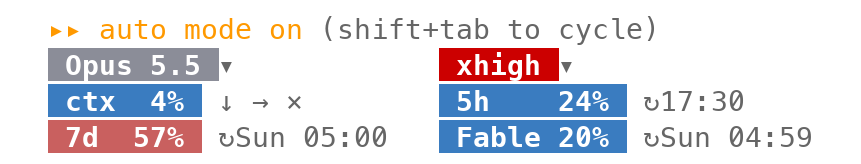
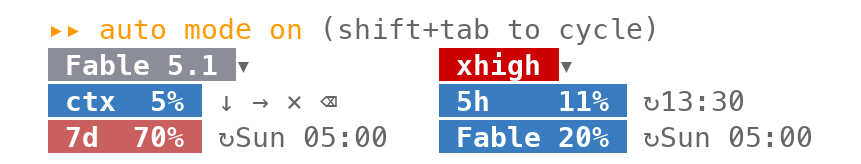
feat(statusbar): ctx 旁加上清空輸入框的 ⌫ 鈕
Claude 工作中輸入框打了字，想清掉時按 Esc 會中斷這一輪，而不是清掉
輸入框。在 ctx 列 ↓ → × 的右邊加一顆 ⌫，按一次就用空字串取代輸入框
的內容（$.prompt.fill），不送指令、不中斷工作；× 已經是 /clear，所以
用不同的符號。滑鼠移上去浮出 clear input，四個名稱標籤補到一樣寬。

實機讓 Claude 跑 20 秒的指令，工作中打字再點 ⌫：輸入框清空，這一輪
照常跑完。README 中英兩版補上說明，寬版與窄版截圖重拍。版號升至
0.7.0。

Claude-Session: https://claude.ai/code/session_01UjYtFk3NgWr73Z36LwYfGd

diff --git a/statusbar/hooks/register.tsx b/statusbar/hooks/register.tsx
@@ -100,6 +100,9 @@ const run = ($: EngineInterface, command: string) => $.command.run({ command })
 const CONTINUE_TEXT = '繼續工作'
 const continueWork = ($: EngineInterface) => $.prompt.submit({ text: CONTINUE_TEXT, asUser: true })
 
+// 清空輸入框。Claude 工作中按 Esc 會中斷這一輪而不是清掉打到一半的字，這顆鈕只清輸入框。
+const clearInput = ($: EngineInterface) => $.prompt.fill({ text: '' })
+
 // `/compact`、`/clear` 都會改掉整段對話，所以要按兩次：第一次只把鈕換成 `↓ compact?`、
 // `× clear?`，3 秒內再按同一顆才送出，否則恢復原狀；改按另一顆就換成等那一顆。
 // 比對指令與按下的時間，免得上一次的計時把新的一次提早收掉。
@@ -281,8 +284,8 @@ export const register: Register = on => {
       <Button key={command} label="▾" plain dimColor onPress={() => void run($, command)} />
     )
 
-    // ctx 旁的 ↓ compact（把對話壓下去）、→ 送出「繼續工作」、× clear（清掉）；compact
-    // 與 clear 會改掉整段對話，要按兩次。
+    // ctx 旁的 ↓ compact（把對話壓下去）、→ 送出「繼續工作」、× clear（清掉對話）、⌫ 清空輸入框；
+    // compact 與 clear 會改掉整段對話，要按兩次。
     const waiting = (await read($, armed))?.command ?? null
     const confirmButton = (command: Armed['command'], glyph: string) => (
       <Button
@@ -309,6 +312,15 @@ export const register: Register = on => {
         />
         <Text> </Text>
         {confirmButton('clear', '×')}
+        <Text> </Text>
+        <Button
+          key="erase"
+          label="⌫"
+          plain
+          dimColor
+          hover={{ scope: 'hint:erase' }}
+          onPress={() => void clearInput($)}
+        />
       </Box>
     )
 
@@ -352,10 +364,10 @@ export const register: Register = on => {
       </Box>
     )
 
-    // 滑鼠移到三顆鈕上，鈕的右邊浮出反白的名稱標籤，像工具提示一樣暫時蓋在 5h 那一欄上，
+    // 滑鼠移到四顆鈕上，鈕的右邊浮出反白的名稱標籤，像工具提示一樣暫時蓋在 5h 那一欄上，
     // 不推擠版面。後畫的元素蓋在先畫的上面，所以標籤放在整列最後、位置用前面的寬度算：
     // 寬版先是模型／effort 那一欄與 3 格間隔，ctx 列是「ctx 」、進度條、百分比膠囊；窄版的 ctx
-    // 列在模型下面那一列，只有放進標籤的膠囊。再空一格才是鈕。三個標籤補到一樣寬，每個都整個
+    // 列在模型下面那一列，只有放進標籤的膠囊。再空一格才是鈕。四個標籤補到一樣寬，每個都整個
     // 蓋住「5h」，不會露出半個字。有一顆在等確認時不浮出，免得和 `compact?` 疊在一起。
     const ctxPercent = u.contextPercent ?? 0
     const modelColumn = Math.max(modelName(u.model).length, u.effort?.length ?? 0) + 3 + 3
@@ -366,17 +378,18 @@ export const register: Register = on => {
       <Box
         position="absolute"
         top={isNarrow ? 1 : 0}
-        left={buttonsAt + 6}
+        left={buttonsAt + 8}
         display="none"
         hover={{ scope, display: 'flex' }}
       >
-        <Text inverse>{` ${text.padEnd(8)} `}</Text>
+        <Text inverse>{` ${text.padEnd(11)} `}</Text>
       </Box>
     )
     const hoverLabels = waiting === null && [
       hoverLabel('hint:compact', 'compact'),
       hoverLabel('hint:continue', 'continue'),
       hoverLabel('hint:clear', 'clear'),
+      hoverLabel('hint:erase', 'clear input'),
     ]
 
     // 用量的配對：短期的 ctx／5h 一列，每週的 7d／Fable 一列。終端機太窄時，5h、Fable

diff --git a/statusbar/README.en.md b/statusbar/README.en.md
@@ -8,17 +8,18 @@ It adds two status rows under the Claude Code prompt (three in a narrow terminal
 
 ```
 ⏵⏵ auto mode on (shift+tab to cycle)
- Opus 5.5 ▾   ctx ▰▰▱▱▱▱▱▱▱▱  24%  ↓ → ×        5h    ▰▱▱▱▱▱▱▱  9%  ↻19:00
+ Opus 5.5 ▾   ctx ▰▰▱▱▱▱▱▱▱▱  24%  ↓ → × ⌫      5h    ▰▱▱▱▱▱▱▱  9%  ↻19:00
  xhigh ▾      7d  ▰▰▰▰▱▱▱▱▱▱  35%  ↻Sun 05:00   Fable ▰▱▱▱▱▱▱▱  17%  ↻Sun 05:00
 ```
 
 - **Model and effort**: pills. The model pill is gray. The effort pill has the color of its level: low green, medium yellow, high orange, xhigh and max red. A press on the ▾ after a pill does what `/model` or `/effort` typed in the prompt does: it opens the picker. The pills change at once after a pick.
-- **ctx**: how much of the context window the conversation uses. After a session starts, after `/clear` and after a compact, Claude Code has no figure until the model's first reply. Until then, the pill shows a local estimate: what the system prompt, the tools, the memory files and the conversation already use. The estimate sends no request and makes no model call. After the reply, the pill shows the real figure. A conversation brought back with `/resume` shows the real figure from its last reply. Three buttons follow the percentage after one space. When the mouse is on a button, a label with its name shows next to it in inverted colors; the label covers the 5h column until the mouse moves away:
+- **ctx**: how much of the context window the conversation uses. After a session starts, after `/clear` and after a compact, Claude Code has no figure until the model's first reply. Until then, the pill shows a local estimate: what the system prompt, the tools, the memory files and the conversation already use. The estimate sends no request and makes no model call. After the reply, the pill shows the real figure. A conversation brought back with `/resume` shows the real figure from its last reply. Four buttons follow the percentage after one space. When the mouse is on a button, a label with its name shows next to it in inverted colors; the label covers the 5h column until the mouse moves away:
   - `↓` does what `/compact` typed in the prompt does; while the model replies, it waits for the turn to end.
   - `→` does what typing `繼續工作` ("continue working" in Chinese) and Enter in the prompt does, on one press; while the model replies, it waits for the turn to end.
   - `×` does what `/clear` does.
+  - `⌫` clears the prompt box, on one press. While Claude works, Esc stops the turn and does not clear what you typed. This button clears only the prompt box, and the work goes on.
   - `↓` and `×` change the whole conversation, so each needs two presses, to prevent an accidental press: the first press changes it to `↓ compact?` or `× clear?`, and a second press on the same button within 3 seconds sends the command. Otherwise it changes back.
-- The glyphs split the work: `▾` opens a picker; `→` tells the model to go on; `↓` (press down) and `×` (clear away) act on the conversation.
+- The glyphs split the work: `▾` opens a picker; `→` tells the model to go on; `↓` (press down) and `×` (clear away) act on the conversation; `⌫` (erase) acts only on the prompt box.
 - **5h and 7d**: the 5-hour and weekly usage limits, followed by the reset time. Only subscription accounts have them.
 - **Fable**: the weekly Fable usage, followed by the reset time. It shows only when the account has a Fable limit.
 - Each bar has the color of its level: below 50% green, below 75% yellow, below 90% orange, else red. Each percentage pill has this background: below 50% blue, below 75% rose, else red.
@@ -34,7 +35,7 @@ The narrow layout needs about 49 columns. In a narrower terminal, the 5h and Fab
 ## Requirements
 
 - Claude Code 2.1.290 or later (tested on this version). The mod API is early access, so a Claude Code release can make an update of this mod necessary.
-- Mouse clicks on the buttons (`▾`, `↓`, `→`, `×`) need Claude Code's fullscreen layout (`"tui": "fullscreen"` in settings.json). Without it, a click on a button does nothing.
+- Mouse clicks on the buttons (`▾`, `↓`, `→`, `×`, `⌫`) need Claude Code's fullscreen layout (`"tui": "fullscreen"` in settings.json). Without it, a click on a button does nothing.
 
 ## Install
 

diff --git a/statusbar/README.md b/statusbar/README.md
@@ -8,17 +8,18 @@
 
 ```
 ⏵⏵ auto mode on (shift+tab to cycle)
- Opus 5.5 ▾   ctx ▰▰▱▱▱▱▱▱▱▱  24%  ↓ → ×        5h    ▰▱▱▱▱▱▱▱  9%  ↻19:00
+ Opus 5.5 ▾   ctx ▰▰▱▱▱▱▱▱▱▱  24%  ↓ → × ⌫      5h    ▰▱▱▱▱▱▱▱  9%  ↻19:00
  xhigh ▾      7d  ▰▰▰▰▱▱▱▱▱▱  35%  ↻Sun 05:00   Fable ▰▱▱▱▱▱▱▱  17%  ↻Sun 05:00
 ```
 
 - **模型、effort**：膠囊樣式，模型是灰底。effort 依等級上色：low 綠、medium 黃、high 橘、xhigh 和 max 紅。按膠囊右邊的 ▾ 等於送出 `/model`、`/effort`，直接打開切換選單；切換後膠囊立刻跟著變。
-- **ctx**：這段對話用掉多少上下文視窗。開 session、`/clear` 或 compact 之後、模型第一次回覆之前，Claude Code 還沒有這個數字，這時顯示本機估算值（系統提示、工具、記憶檔與對話已經佔掉的量；不發請求、不呼叫模型），回覆後換成實際值。`/resume` 接回的對話顯示它最後一次回覆時的實際值。百分比右邊空一格是三顆鈕。滑鼠移到鈕上，旁邊會浮出反白的名稱標籤，暫時蓋住 5h 那一欄，移開就消失：
+- **ctx**：這段對話用掉多少上下文視窗。開 session、`/clear` 或 compact 之後、模型第一次回覆之前，Claude Code 還沒有這個數字，這時顯示本機估算值（系統提示、工具、記憶檔與對話已經佔掉的量；不發請求、不呼叫模型），回覆後換成實際值。`/resume` 接回的對話顯示它最後一次回覆時的實際值。百分比右邊空一格是四顆鈕。滑鼠移到鈕上，旁邊會浮出反白的名稱標籤，暫時蓋住 5h 那一欄，移開就消失：
   - `↓` 等於在輸入框送出 `/compact`；模型正在回覆時，會排隊等這一輪結束再壓縮。
   - `→` 等於在輸入框打「繼續工作」再按 Enter，按一次就送出；模型正在回覆時，會等這一輪結束再送出。
   - `×` 等於送出 `/clear`。
+  - `⌫` 清空輸入框，按一次就清。Claude 工作中按 Esc 會中斷這一輪，不會清掉打到一半的字；這顆鈕只清輸入框，工作照常進行。
   - `↓`、`×` 會改掉整段對話，都要按兩次，免得誤觸：第一次按下變成 `↓ compact?` 或 `× clear?`，3 秒內再按同一顆才送出，否則恢復原狀。
-- 符號的分工：`▾` 是打開選單；`→` 是請模型繼續；`↓`（往下壓）和 `×`（清掉）是對這段對話動手。
+- 符號的分工：`▾` 是打開選單；`→` 是請模型繼續；`↓`（往下壓）和 `×`（清掉）是對這段對話動手；`⌫`（往左刪除）只動輸入框。
 - **5h、7d**：5 小時與每週的用量額度，後面是重置時間。訂閱帳號才有這兩項。
 - **Fable**：Fable 的每週用量，後面是重置時間。帳號有 Fable 額度才顯示。
 - 進度條依用量上色：未滿 50% 綠、未滿 75% 黃、未滿 90% 橘、其餘紅。百分比膠囊的底色：未滿 50% 藍、未滿 75% 玫瑰紅、其餘紅。
@@ -34,7 +35,7 @@
 ## 需求
 
 - Claude Code 2.1.290 以上（以這一版測試）。mod 的 API 目前是 early access，Claude Code 改版時，這個 mod 可能要跟著更新。
-- 用滑鼠點按鈕（`▾`、`↓`、`→`、`×`）需要 Claude Code 的全螢幕版面（settings.json 的 `"tui": "fullscreen"`）。沒開全螢幕時，按鈕點了沒有反應。
+- 用滑鼠點按鈕（`▾`、`↓`、`→`、`×`、`⌫`）需要 Claude Code 的全螢幕版面（settings.json 的 `"tui": "fullscreen"`）。沒開全螢幕時，按鈕點了沒有反應。
 
 ## 安裝
 
